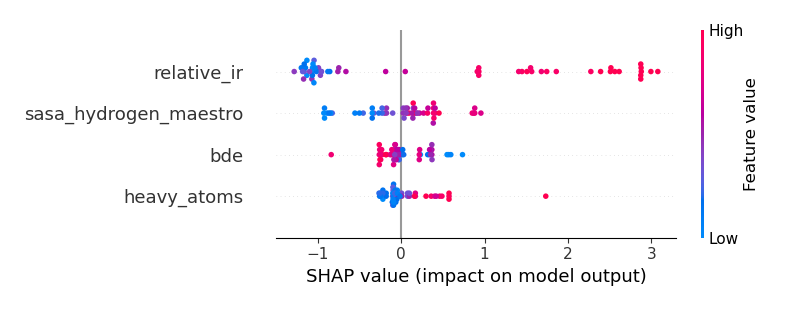
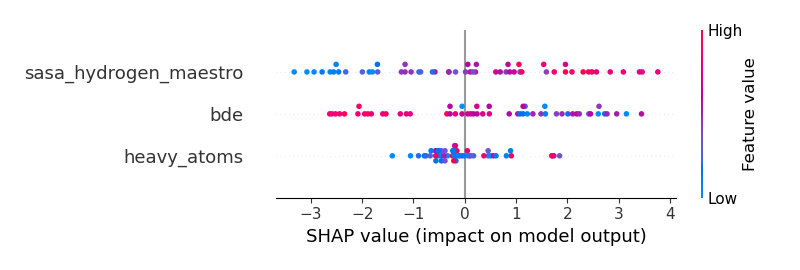
checkpoint

diff --git a/07_xgboost/train_xgboost.py b/07_xgboost/train_xgboost.py
@@ -18,7 +18,6 @@ print(dataset.shape)
 # Define the features and target
 features = [
     "bde",
-    "relative_ir",
     "sasa_hydrogen_maestro",
     "heavy_atoms",
 ]
